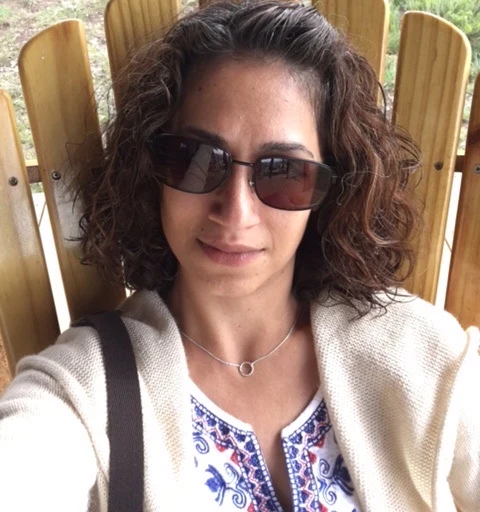
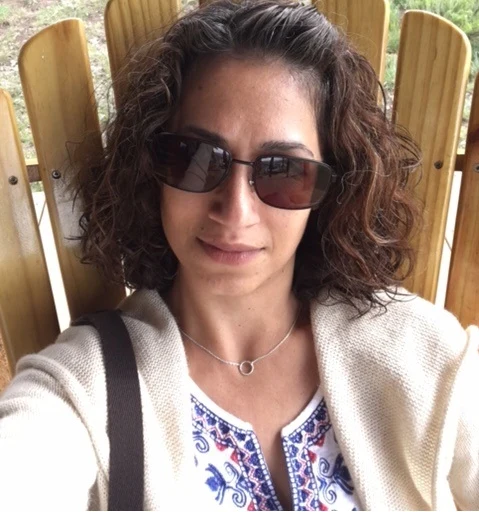
Add 11 players and their first headshots
The family roster for the league: Eden Katz, Steve, Michele, Jordan, Aaron
and Eli Harkov, Eyal, Orit and Karin Israel, and Robin and Tzvi Herman, all
as players. No picks yet; Week 7 locks Thursday.

Headshots for Eden, Karin, Michele and Steve, and Maya's re-imported from
her original so the rebuilt manifest keeps it. Everyone else shows the
default avatar until a photo arrives. The shipped WebP variants carry no
EXIF, GPS, XMP or IPTC metadata; the originals stay in the ignored photos/.

diff --git a/scripts/league.ts b/scripts/league.ts
@@ -37,6 +37,17 @@ export const LEAGUE: LeagueDefinition = {
   people: [
     // Commissioner: runs the league, writes the notes, and plays.
     { id: 'maya-israel', name: 'Maya Israel', role: 'commissioner' },
+    { id: 'eden-katz', name: 'Eden Katz', role: 'player' },
+    { id: 'steve-harkov', name: 'Steve Harkov', role: 'player' },
+    { id: 'michele-harkov', name: 'Michele Harkov', role: 'player' },
+    { id: 'jordan-harkov', name: 'Jordan Harkov', role: 'player' },
+    { id: 'aaron-harkov', name: 'Aaron Harkov', role: 'player' },
+    { id: 'eli-harkov', name: 'Eli Harkov', role: 'player' },
+    { id: 'eyal-israel', name: 'Eyal Israel', role: 'player' },
+    { id: 'orit-israel', name: 'Orit Israel', role: 'player' },
+    { id: 'karin-israel', name: 'Karin Israel', role: 'player' },
+    { id: 'robin-herman', name: 'Robin Herman', role: 'player' },
+    { id: 'tzvi-herman', name: 'Tzvi Herman', role: 'player' },
   ],
   picks: {},
   pickSource: () => 'commissioner',
